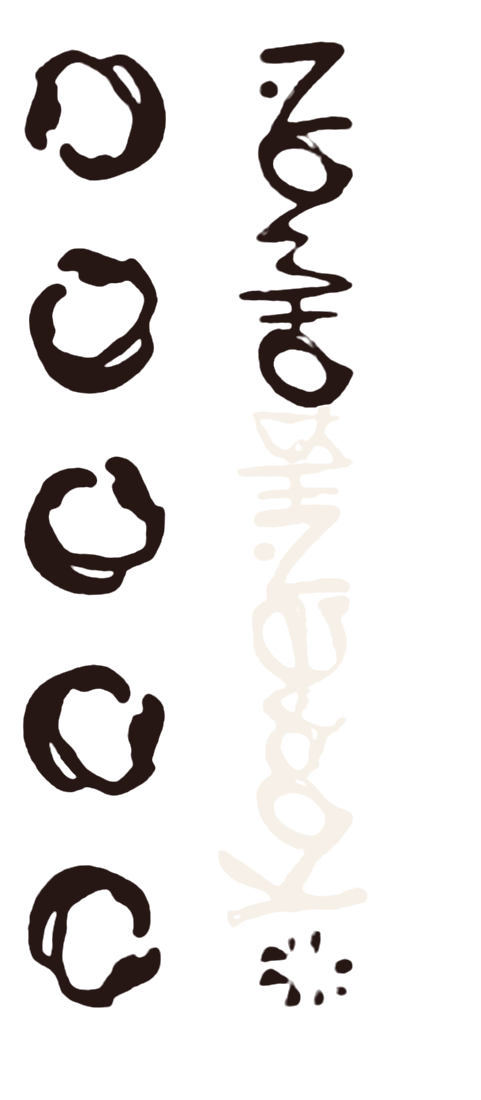
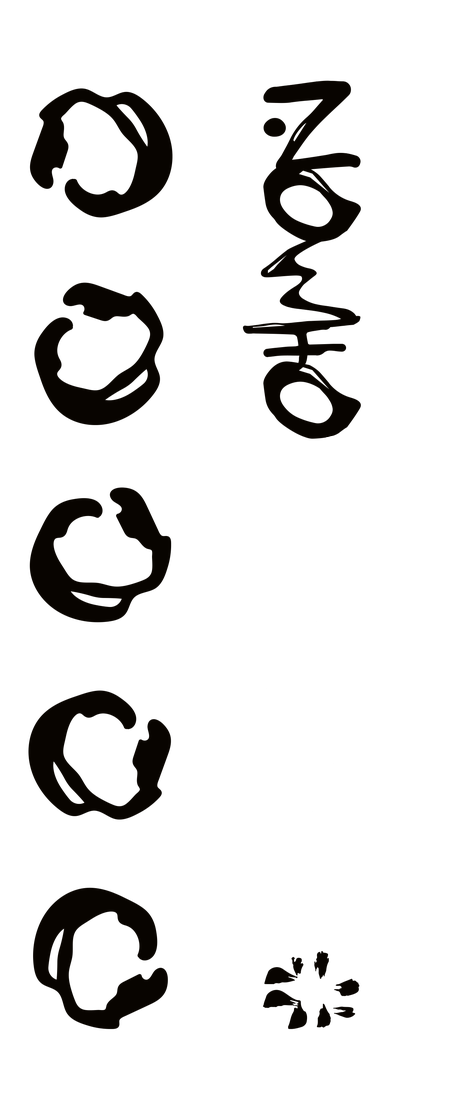
Sync site with VPS deployment archive (kom-v13)

diff --git a/js/geometry.js b/js/geometry.js
@@ -1,22 +1,22 @@
-// Координаты оборота карты, измеренные по выпрямленному скану (1716 × 1100 px) —
-// те же числа, что CardGeometry.kt в приложении. Всё в долях размера карты.
+// Координаты оборота карты по векторному макету (85 × 55 мм → 1716 × 1110 px): квадрат 7 мм, шаг 10 мм.
+// Те же числа, что CardGeometry.kt в приложении; печатает их docs/internal/build_card_art.py.
 
 const SCAN_W = 1716;
-const SCAN_H = 1100;
+const SCAN_H = 1110;
 
 export const ASPECT = SCAN_W / SCAN_H;
 export const COLUMNS = 6;
 export const ROWS = 5;
 export const CELLS = COLUMNS * ROWS;
-export const STRIP_LEFT = 1235 / SCAN_W;
+export const STRIP_LEFT = 1262 / SCAN_W;
 
-const GRID_LEFT = 42;
-const GRID_TOP = 39;
-const PITCH_X = 202.8;
-const PITCH_Y = 206.5;
-const CELL_W = 143;
-const CELL_H = 145;
-const CELL_STROKE = 17.5;
+const GRID_LEFT = 80.7;
+const GRID_TOP = 80.8;
+const PITCH_X = 201.9;
+const PITCH_Y = 201.9;
+const CELL_W = 141.3;
+const CELL_H = 141.3;
+const CELL_STROKE = 16.4;
 
 export function cellRect(w, h, cell) {
   const col = cell % COLUMNS;
@@ -39,11 +39,11 @@ export function cellInk(w, h, cell) {
 }
 
 export const ringCenter = (w, h, row) => ({
-  x: (1330 / SCAN_W) * w,
+  x: (1362 / SCAN_W) * w,
   y: ((GRID_TOP + row * PITCH_Y + CELL_H / 2) / SCAN_H) * h,
 });
 
-export const ringRadius = (w) => (74 / SCAN_W) * w;
+export const ringRadius = (w) => (68 / SCAN_W) * w;
 
 /** Где рисует бариста, выдавая подарок: квадрат по кольцу, буква того же размера, что в ячейке. */
 export function ringInk(w, h, row) {

diff --git a/sw.js b/sw.js
@@ -1,6 +1,6 @@
 // Офлайн-оболочка: сайт открывается с экрана «Домой» мгновенно и без сети.
 // Сервера нет — карта в localStorage, так что без сети работает всё.
-const VERSION = "kom-v11";
+const VERSION = "kom-v13";
 const SHELL = [
   "./",
   "index.html",

diff --git a/js/marker.js b/js/marker.js
@@ -8,8 +8,8 @@ export const pixelRatio = () => Math.min(window.devicePixelRatio || 1, 2);
 
 export const MARKER_WIDTH = 0.075; // толщина маркера в долях стороны квадрата
 export const COLORS = {
-  red: "#E3352A",
-  ink: "#261614",
+  red: "#BF2C2B",
+  ink: "#080400",
   marker: "#F7F0E8",
   table: "#1B1413",
 };

diff --git a/css/app.css b/css/app.css
@@ -6,8 +6,8 @@
 }
 
 :root {
-  --red: #e3352a;
-  --ink: #261614;
+  --red: #bf2c2b;
+  --ink: #080400;
   --marker: #f7f0e8;
   --marker-faded: rgba(247, 240, 232, 0.6);
   --table: #1b1413;

diff --git a/privacy.html b/privacy.html
@@ -8,7 +8,7 @@
 <meta name="theme-color" content="#F7F0E8">
 <style>
   :root {
-    --red: #E3352A;
+    --red: #BF2C2B;
     --ink: #261614;
     --muted: #6F5C57;
     --line: #E3D5CA;
